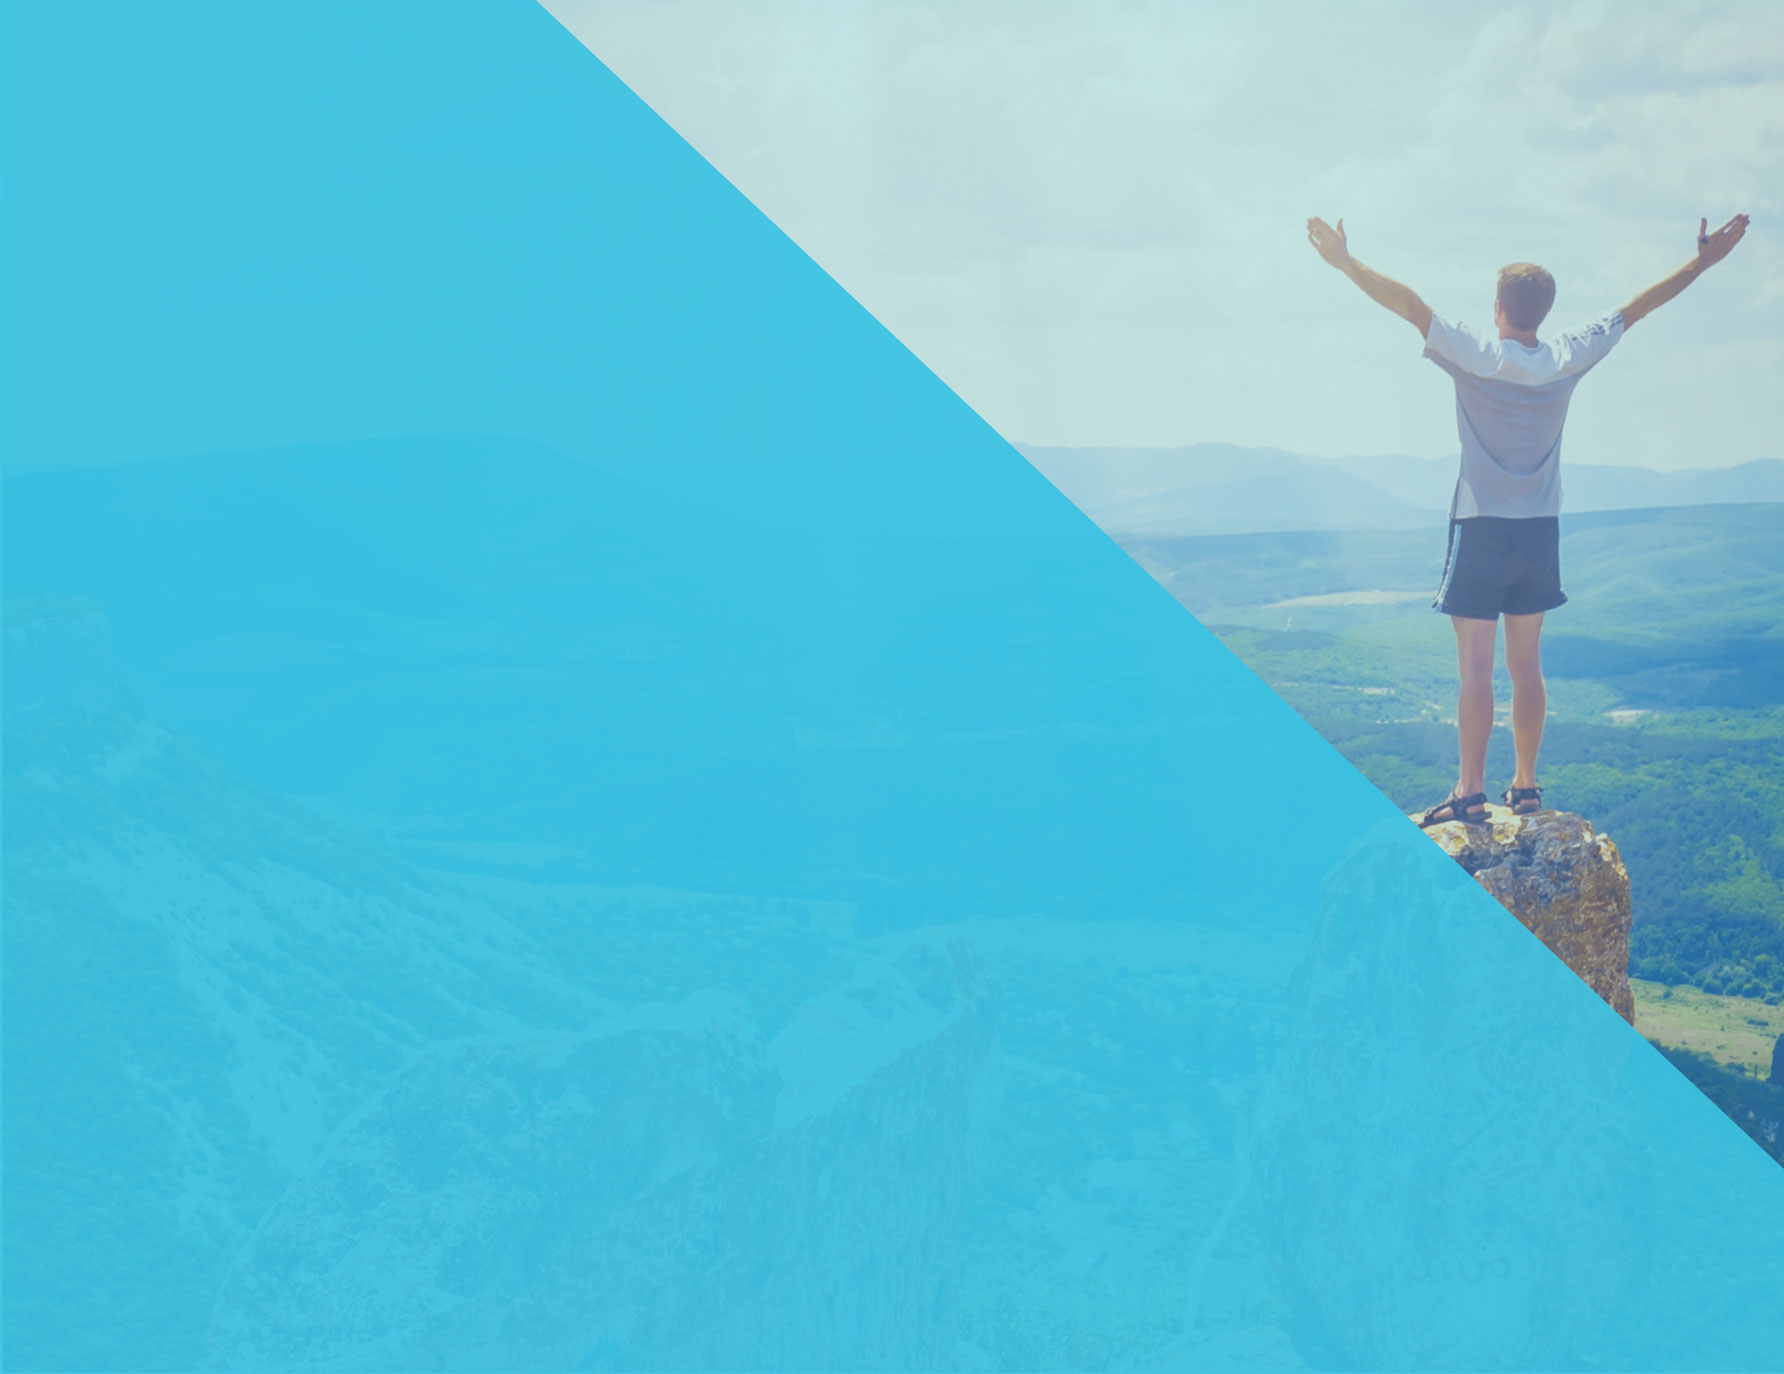
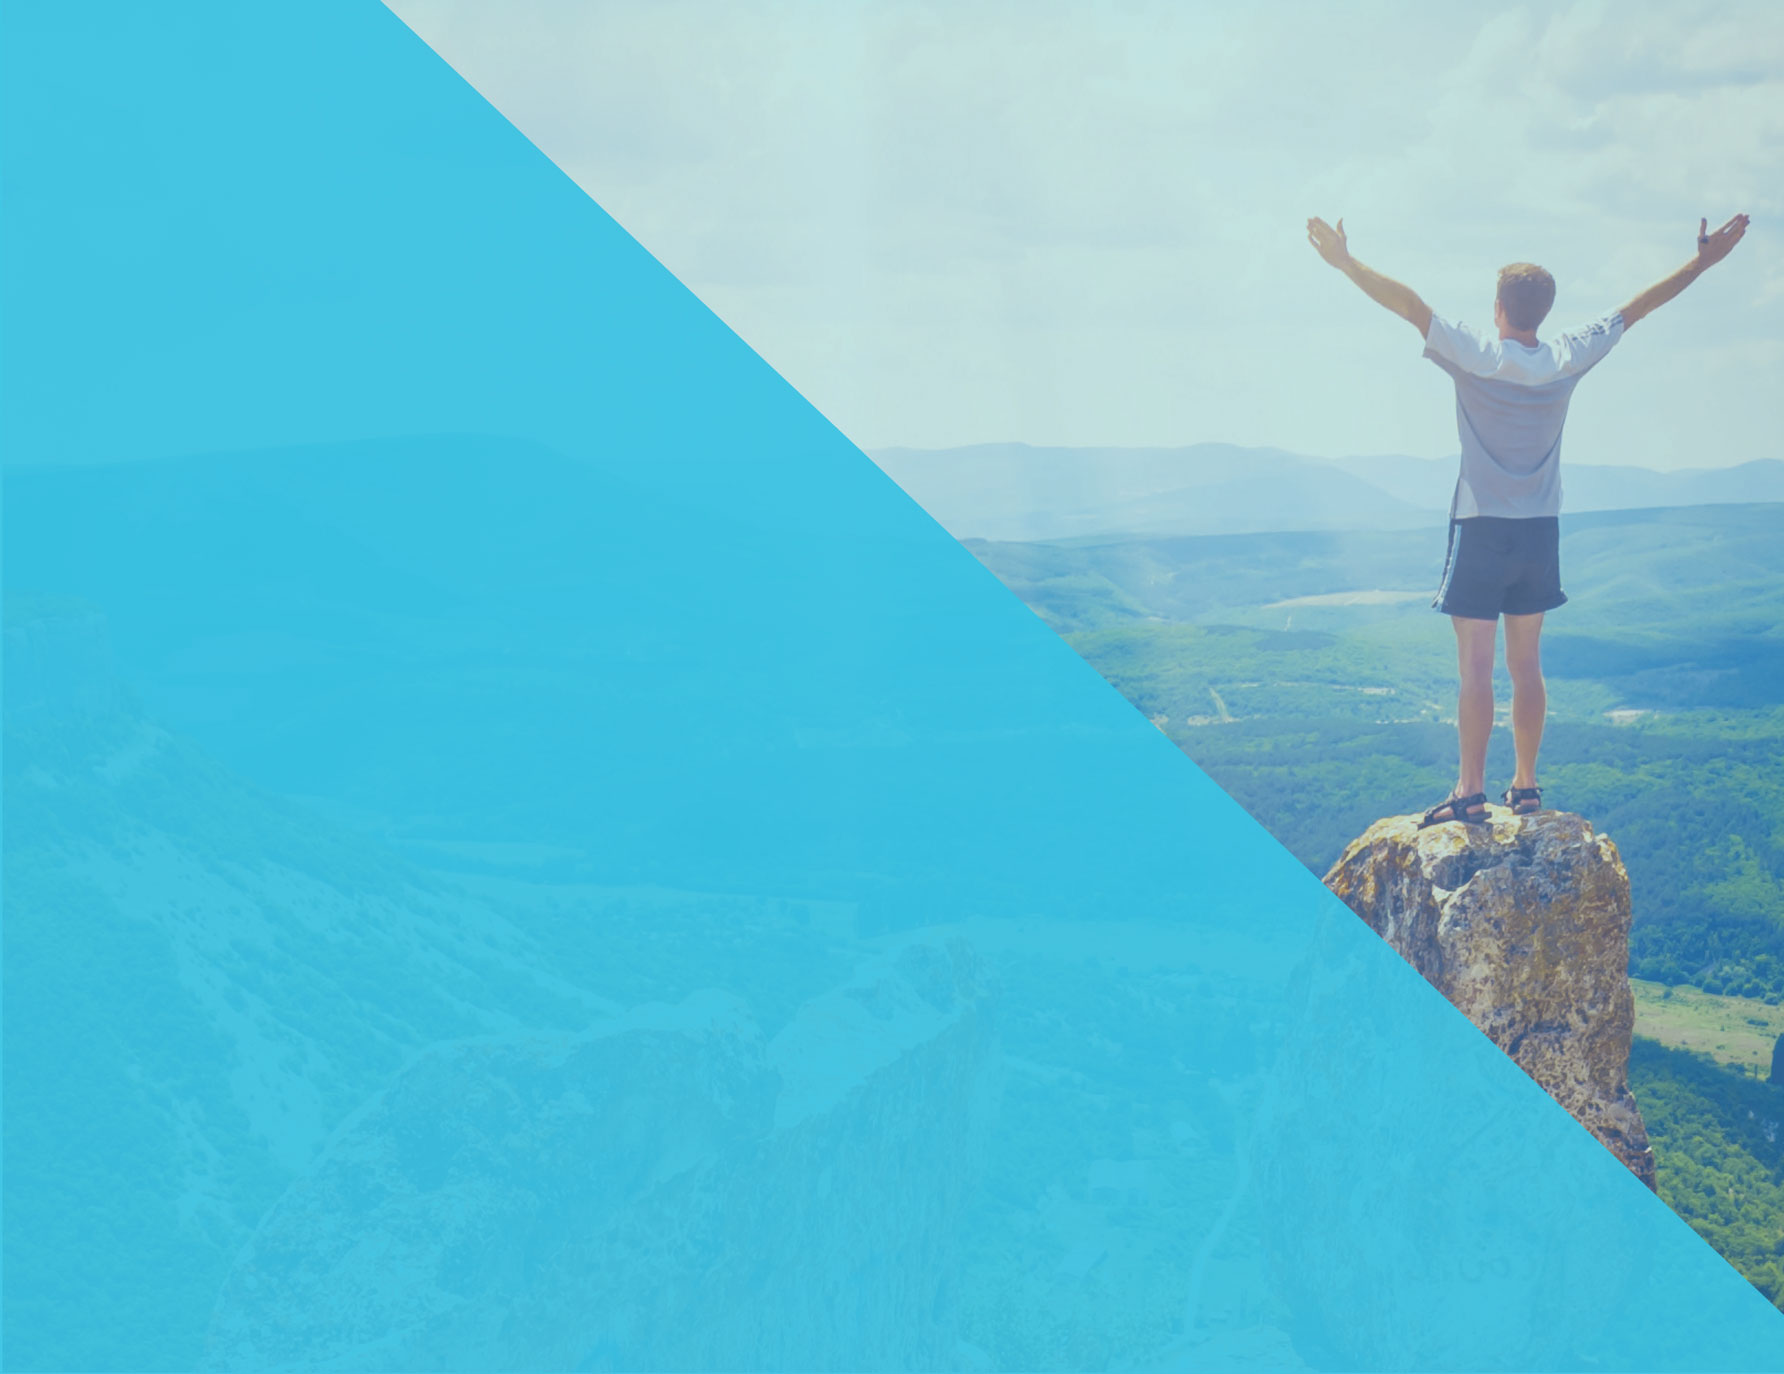
deleted old picture
renamed new ones

Changed region(s): [[0.2158, 0.0, 1.0, 0.9476]]

diff --git a/V2 site/style.css b/V2 site/style.css
@@ -142,7 +142,7 @@ form
 .banner
 {
   /*background: url(images/picjumbo-bg5.png) no-repeat fixed 30% 0%/cover;*/
-  background: url(images/happyman-2.jpg) no-repeat fixed 30% 0%/cover;
+  background: url(images/happyman-1.jpg) no-repeat fixed 30% 0%/cover;
   padding: 90px 0px;
   cursor: default;
 
